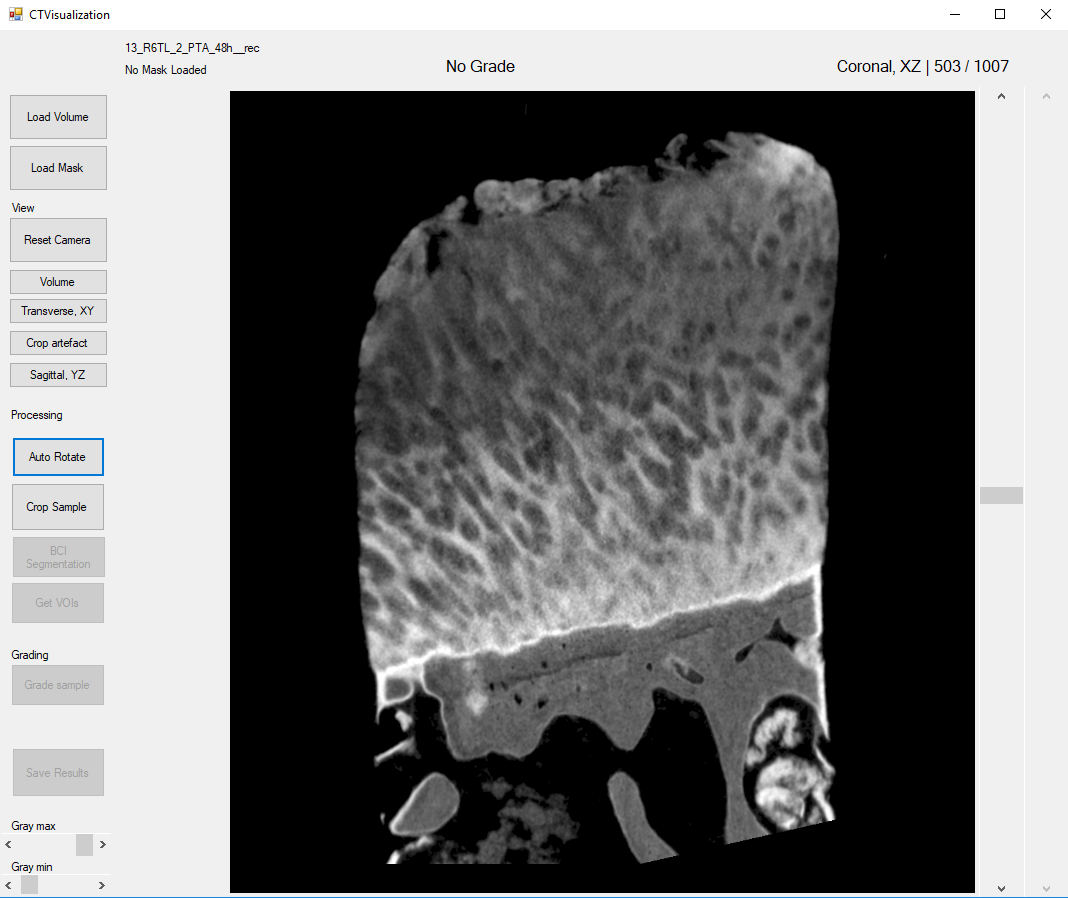
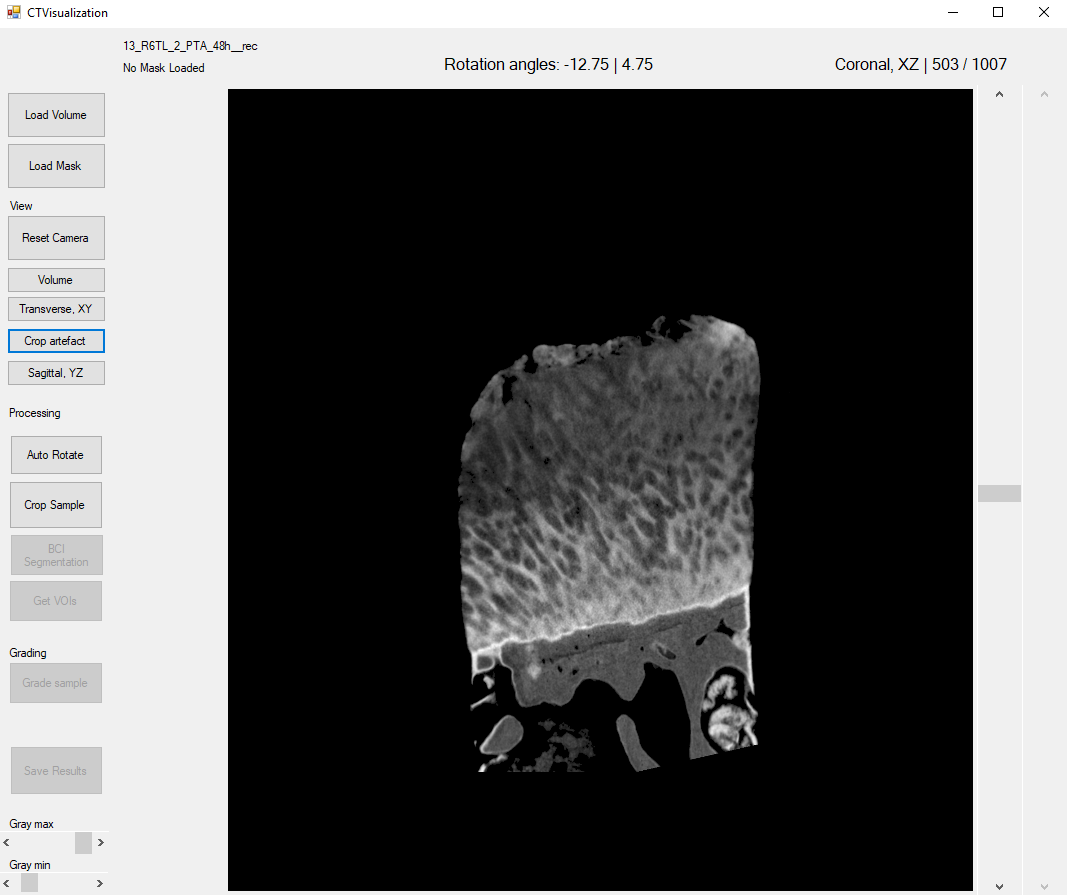
Display tooltips on mainform

diff --git a/3DHistoGrading/GradingForm.Designer.cs b/3DHistoGrading/GradingForm.Designer.cs
@@ -60,7 +60,7 @@
             // 
             this.label1.Anchor = System.Windows.Forms.AnchorStyles.Bottom;
             this.label1.AutoSize = true;
-            this.label1.Location = new System.Drawing.Point(121, 179);
+            this.label1.Location = new System.Drawing.Point(118, 185);
             this.label1.Name = "label1";
             this.label1.Size = new System.Drawing.Size(65, 13);
             this.label1.TabIndex = 1;
@@ -70,7 +70,7 @@
             // 
             this.label2.Anchor = System.Windows.Forms.AnchorStyles.Bottom;
             this.label2.AutoSize = true;
-            this.label2.Location = new System.Drawing.Point(359, 179);
+            this.label2.Location = new System.Drawing.Point(350, 185);
             this.label2.Name = "label2";
             this.label2.Size = new System.Drawing.Size(127, 13);
             this.label2.TabIndex = 2;
@@ -81,7 +81,7 @@
             // 
             this.label3.Anchor = System.Windows.Forms.AnchorStyles.Bottom;
             this.label3.AutoSize = true;
-            this.label3.Location = new System.Drawing.Point(394, 499);
+            this.label3.Location = new System.Drawing.Point(385, 516);
             this.label3.Name = "label3";
             this.label3.Size = new System.Drawing.Size(57, 13);
             this.label3.TabIndex = 7;
@@ -91,7 +91,7 @@
             // 
             this.label4.Anchor = System.Windows.Forms.AnchorStyles.Bottom;
             this.label4.AutoSize = true;
-            this.label4.Location = new System.Drawing.Point(126, 499);
+            this.label4.Location = new System.Drawing.Point(123, 516);
             this.label4.Name = "label4";
             this.label4.Size = new System.Drawing.Size(55, 13);
             this.label4.TabIndex = 8;
@@ -101,7 +101,7 @@
             // 
             this.label5.Anchor = System.Windows.Forms.AnchorStyles.Bottom;
             this.label5.AutoSize = true;
-            this.label5.Location = new System.Drawing.Point(661, 499);
+            this.label5.Location = new System.Drawing.Point(646, 516);
             this.label5.Name = "label5";
             this.label5.Size = new System.Drawing.Size(60, 13);
             this.label5.TabIndex = 9;
@@ -110,18 +110,18 @@
             // progressBar1
             // 
             this.progressBar1.Dock = System.Windows.Forms.DockStyle.Top;
-            this.progressBar1.Location = new System.Drawing.Point(560, 23);
+            this.progressBar1.Location = new System.Drawing.Point(23, 23);
             this.progressBar1.Name = "progressBar1";
-            this.progressBar1.Size = new System.Drawing.Size(263, 43);
+            this.progressBar1.Size = new System.Drawing.Size(256, 34);
             this.progressBar1.TabIndex = 10;
             // 
             // progressLabel
             // 
+            this.progressLabel.Anchor = System.Windows.Forms.AnchorStyles.Left;
             this.progressLabel.AutoSize = true;
-            this.progressLabel.Dock = System.Windows.Forms.DockStyle.Bottom;
-            this.progressLabel.Location = new System.Drawing.Point(560, 7);
+            this.progressLabel.Location = new System.Drawing.Point(23, 3);
             this.progressLabel.Name = "progressLabel";
-            this.progressLabel.Size = new System.Drawing.Size(263, 13);
+            this.progressLabel.Size = new System.Drawing.Size(54, 13);
             this.progressLabel.TabIndex = 11;
             this.progressLabel.Text = "Progress: ";
             // 
@@ -130,9 +130,9 @@
             this.meanPicture.Anchor = ((System.Windows.Forms.AnchorStyles)((((System.Windows.Forms.AnchorStyles.Top | System.Windows.Forms.AnchorStyles.Bottom) 
             | System.Windows.Forms.AnchorStyles.Left) 
             | System.Windows.Forms.AnchorStyles.Right)));
-            this.meanPicture.Location = new System.Drawing.Point(23, 195);
+            this.meanPicture.Location = new System.Drawing.Point(23, 201);
             this.meanPicture.Name = "meanPicture";
-            this.meanPicture.Size = new System.Drawing.Size(262, 240);
+            this.meanPicture.Size = new System.Drawing.Size(256, 249);
             this.meanPicture.SizeMode = System.Windows.Forms.PictureBoxSizeMode.AutoSize;
             this.meanPicture.TabIndex = 12;
             this.meanPicture.TabStop = false;
@@ -142,9 +142,9 @@
             this.stdPicture.Anchor = ((System.Windows.Forms.AnchorStyles)((((System.Windows.Forms.AnchorStyles.Top | System.Windows.Forms.AnchorStyles.Bottom) 
             | System.Windows.Forms.AnchorStyles.Left) 
             | System.Windows.Forms.AnchorStyles.Right)));
-            this.stdPicture.Location = new System.Drawing.Point(291, 195);
+            this.stdPicture.Location = new System.Drawing.Point(285, 201);
             this.stdPicture.Name = "stdPicture";
-            this.stdPicture.Size = new System.Drawing.Size(263, 240);
+            this.stdPicture.Size = new System.Drawing.Size(257, 249);
             this.stdPicture.TabIndex = 13;
             this.stdPicture.TabStop = false;
             // 
@@ -153,9 +153,9 @@
             this.smallPicture.Anchor = ((System.Windows.Forms.AnchorStyles)((((System.Windows.Forms.AnchorStyles.Top | System.Windows.Forms.AnchorStyles.Bottom) 
             | System.Windows.Forms.AnchorStyles.Left) 
             | System.Windows.Forms.AnchorStyles.Right)));
-            this.smallPicture.Location = new System.Drawing.Point(23, 515);
+            this.smallPicture.Location = new System.Drawing.Point(23, 532);
             this.smallPicture.Name = "smallPicture";
-            this.smallPicture.Size = new System.Drawing.Size(262, 240);
+            this.smallPicture.Size = new System.Drawing.Size(256, 249);
             this.smallPicture.TabIndex = 14;
             this.smallPicture.TabStop = false;
             // 
@@ -164,9 +164,9 @@
             this.largePicture.Anchor = ((System.Windows.Forms.AnchorStyles)((((System.Windows.Forms.AnchorStyles.Top | System.Windows.Forms.AnchorStyles.Bottom) 
             | System.Windows.Forms.AnchorStyles.Left) 
             | System.Windows.Forms.AnchorStyles.Right)));
-            this.largePicture.Location = new System.Drawing.Point(291, 515);
+            this.largePicture.Location = new System.Drawing.Point(285, 532);
             this.largePicture.Name = "largePicture";
-            this.largePicture.Size = new System.Drawing.Size(263, 240);
+            this.largePicture.Size = new System.Drawing.Size(257, 249);
             this.largePicture.TabIndex = 15;
             this.largePicture.TabStop = false;
             // 
@@ -175,9 +175,9 @@
             this.radialPicture.Anchor = ((System.Windows.Forms.AnchorStyles)((((System.Windows.Forms.AnchorStyles.Top | System.Windows.Forms.AnchorStyles.Bottom) 
             | System.Windows.Forms.AnchorStyles.Left) 
             | System.Windows.Forms.AnchorStyles.Right)));
-            this.radialPicture.Location = new System.Drawing.Point(560, 515);
+            this.radialPicture.Location = new System.Drawing.Point(548, 532);
             this.radialPicture.Name = "radialPicture";
-            this.radialPicture.Size = new System.Drawing.Size(263, 240);
+            this.radialPicture.Size = new System.Drawing.Size(257, 249);
             this.radialPicture.TabIndex = 16;
             this.radialPicture.TabStop = false;
             // 
@@ -185,22 +185,19 @@
             // 
             this.gradeLabel.Anchor = System.Windows.Forms.AnchorStyles.Left;
             this.gradeLabel.AutoSize = true;
-            this.gradeLabel.Font = new System.Drawing.Font("Microsoft Sans Serif", 32.25F, System.Drawing.FontStyle.Regular, System.Drawing.GraphicsUnit.Point, ((byte)(0)));
-            this.gradeLabel.Location = new System.Drawing.Point(291, 43);
+            this.gradeLabel.Font = new System.Drawing.Font("Microsoft Sans Serif", 30F, System.Drawing.FontStyle.Regular, System.Drawing.GraphicsUnit.Point, ((byte)(0)));
+            this.gradeLabel.Location = new System.Drawing.Point(285, 48);
             this.gradeLabel.Name = "gradeLabel";
-            this.gradeLabel.Size = new System.Drawing.Size(241, 51);
+            this.gradeLabel.Size = new System.Drawing.Size(223, 46);
             this.gradeLabel.TabIndex = 17;
             this.gradeLabel.Text = "Zone grade";
             // 
             // parameterLabel
             // 
-            this.parameterLabel.Anchor = ((System.Windows.Forms.AnchorStyles)((((System.Windows.Forms.AnchorStyles.Top | System.Windows.Forms.AnchorStyles.Bottom) 
-            | System.Windows.Forms.AnchorStyles.Left) 
-            | System.Windows.Forms.AnchorStyles.Right)));
             this.parameterLabel.AutoSize = true;
-            this.parameterLabel.Location = new System.Drawing.Point(23, 20);
+            this.parameterLabel.Location = new System.Drawing.Point(548, 20);
             this.parameterLabel.Name = "parameterLabel";
-            this.parameterLabel.Size = new System.Drawing.Size(262, 98);
+            this.parameterLabel.Size = new System.Drawing.Size(154, 13);
             this.parameterLabel.TabIndex = 18;
             this.parameterLabel.Text = "Parameters (hover mouse over)";
             this.parameterTip.SetToolTip(this.parameterLabel, "Parameters:");
@@ -215,7 +212,7 @@
             // 
             this.meanstdLabel.Anchor = System.Windows.Forms.AnchorStyles.Bottom;
             this.meanstdLabel.AutoSize = true;
-            this.meanstdLabel.Location = new System.Drawing.Point(660, 179);
+            this.meanstdLabel.Location = new System.Drawing.Point(645, 185);
             this.meanstdLabel.Name = "meanstdLabel";
             this.meanstdLabel.Size = new System.Drawing.Size(62, 13);
             this.meanstdLabel.TabIndex = 19;
@@ -226,9 +223,9 @@
             this.meanstdPicture.Anchor = ((System.Windows.Forms.AnchorStyles)((((System.Windows.Forms.AnchorStyles.Top | System.Windows.Forms.AnchorStyles.Bottom) 
             | System.Windows.Forms.AnchorStyles.Left) 
             | System.Windows.Forms.AnchorStyles.Right)));
-            this.meanstdPicture.Location = new System.Drawing.Point(560, 195);
+            this.meanstdPicture.Location = new System.Drawing.Point(548, 201);
             this.meanstdPicture.Name = "meanstdPicture";
-            this.meanstdPicture.Size = new System.Drawing.Size(263, 240);
+            this.meanstdPicture.Size = new System.Drawing.Size(257, 249);
             this.meanstdPicture.TabIndex = 20;
             this.meanstdPicture.TabStop = false;
             // 
@@ -239,7 +236,7 @@
             this.tableLayoutPanel1.ColumnStyles.Add(new System.Windows.Forms.ColumnStyle(System.Windows.Forms.SizeType.Percent, 33.33333F));
             this.tableLayoutPanel1.ColumnStyles.Add(new System.Windows.Forms.ColumnStyle(System.Windows.Forms.SizeType.Percent, 33.33334F));
             this.tableLayoutPanel1.ColumnStyles.Add(new System.Windows.Forms.ColumnStyle(System.Windows.Forms.SizeType.Percent, 33.33334F));
-            this.tableLayoutPanel1.ColumnStyles.Add(new System.Windows.Forms.ColumnStyle(System.Windows.Forms.SizeType.Absolute, 20F));
+            this.tableLayoutPanel1.ColumnStyles.Add(new System.Windows.Forms.ColumnStyle(System.Windows.Forms.SizeType.Absolute, 21F));
             this.tableLayoutPanel1.Controls.Add(this.meanstdLabel, 3, 2);
             this.tableLayoutPanel1.Controls.Add(this.meanstdPicture, 3, 3);
             this.tableLayoutPanel1.Controls.Add(this.label2, 2, 2);
@@ -250,12 +247,12 @@
             this.tableLayoutPanel1.Controls.Add(this.largePicture, 2, 5);
             this.tableLayoutPanel1.Controls.Add(this.radialPicture, 3, 5);
             this.tableLayoutPanel1.Controls.Add(this.stdPicture, 2, 3);
-            this.tableLayoutPanel1.Controls.Add(this.progressLabel, 3, 0);
-            this.tableLayoutPanel1.Controls.Add(this.progressBar1, 3, 1);
             this.tableLayoutPanel1.Controls.Add(this.label5, 3, 4);
             this.tableLayoutPanel1.Controls.Add(this.label3, 2, 4);
             this.tableLayoutPanel1.Controls.Add(this.gradeLabel, 2, 1);
-            this.tableLayoutPanel1.Controls.Add(this.parameterLabel, 1, 1);
+            this.tableLayoutPanel1.Controls.Add(this.progressBar1, 1, 1);
+            this.tableLayoutPanel1.Controls.Add(this.parameterLabel, 3, 1);
+            this.tableLayoutPanel1.Controls.Add(this.progressLabel, 1, 0);
             this.tableLayoutPanel1.Dock = System.Windows.Forms.DockStyle.Fill;
             this.tableLayoutPanel1.Location = new System.Drawing.Point(0, 0);
             this.tableLayoutPanel1.Name = "tableLayoutPanel1";
@@ -267,17 +264,21 @@
             this.tableLayoutPanel1.RowStyles.Add(new System.Windows.Forms.RowStyle(System.Windows.Forms.SizeType.Percent, 10.00014F));
             this.tableLayoutPanel1.RowStyles.Add(new System.Windows.Forms.RowStyle(System.Windows.Forms.SizeType.Percent, 33.3349F));
             this.tableLayoutPanel1.RowStyles.Add(new System.Windows.Forms.RowStyle(System.Windows.Forms.SizeType.Absolute, 20F));
-            this.tableLayoutPanel1.Size = new System.Drawing.Size(847, 780);
+            this.tableLayoutPanel1.Size = new System.Drawing.Size(830, 807);
             this.tableLayoutPanel1.TabIndex = 21;
             // 
             // GradingForm
             // 
             this.AutoScaleDimensions = new System.Drawing.SizeF(6F, 13F);
             this.AutoScaleMode = System.Windows.Forms.AutoScaleMode.Font;
-            this.ClientSize = new System.Drawing.Size(847, 780);
+            this.ClientSize = new System.Drawing.Size(830, 807);
             this.Controls.Add(this.tableLayoutPanel1);
+            this.FormBorderStyle = System.Windows.Forms.FormBorderStyle.Fixed3D;
+            this.MaximumSize = new System.Drawing.Size(1080, 1080);
+            this.MinimumSize = new System.Drawing.Size(100, 100);
             this.Name = "GradingForm";
-            this.Text = "GradingForm";
+            this.ShowIcon = false;
+            this.Text = "Grading";
             ((System.ComponentModel.ISupportInitialize)(this.meanPicture)).EndInit();
             ((System.ComponentModel.ISupportInitialize)(this.stdPicture)).EndInit();
             ((System.ComponentModel.ISupportInitialize)(this.smallPicture)).EndInit();

diff --git a/3DHistoGrading/MainForm.cs b/3DHistoGrading/MainForm.cs
@@ -54,6 +54,9 @@ namespace HistoGrading
         // Sample name
         string fname = null;
 
+        // Tooltip
+        string tip = "Start by loading a PTA sample";
+
         //Save directory
         string savedir = "C:\\Users\\Tuomas Frondelius\\Desktop\\PTAResults";
 
@@ -67,6 +70,7 @@ namespace HistoGrading
         public MainForm()
         {
             InitializeComponent();
+            gradeLabel.Text = tip;
         }
 
         /// <summary>
@@ -78,21 +82,25 @@ namespace HistoGrading
             if(ori == -1)
             {
                 sliceLabel.Text = "Rendering volume";
+                gradeLabel.Text = tip;
             }
-            //Tell coronal rendering
+            //Tell transverse rendering
             if (ori == 2)
             {
-                sliceLabel.Text = String.Format("Transverse, XY | {0} / {1}", sliceN[ori]-dims[4], dims[5]-dims[4]);
+                sliceLabel.Text = string.Format("Transverse, XY | {0} / {1}", sliceN[ori]-dims[4], dims[5]-dims[4]);
+                gradeLabel.Text = tip;
             }
-            //Tell transverse rendering
+            //Tell coronal rendering
             if (ori == 0)
             {
-                sliceLabel.Text = String.Format("Coronal, XZ | {0} / {1}", sliceN[ori]-dims[0], dims[1]-dims[0]);
+                sliceLabel.Text = string.Format("Coronal, XZ | {0} / {1}", sliceN[ori]-dims[0], dims[1]-dims[0]);
+                gradeLabel.Text = "Drag right mouse button to crop artefacts";
             }
-            //Tell transverse rendering
+            //Tell sagittal rendering
             if (ori == 1)
             {
-                sliceLabel.Text = String.Format("Sagittal, YZ | {0} / {1}", sliceN[ori]-dims[2], dims[3]-dims[2]);
+                sliceLabel.Text = string.Format("Sagittal, YZ | {0} / {1}", sliceN[ori]-dims[2], dims[3]-dims[2]);
+                gradeLabel.Text = "Drag right mouse button to crop artefacts";
             }
         }
 
@@ -217,10 +225,6 @@ namespace HistoGrading
                     }
                 }
 
-                //Update GUI text to tell path to data folder
-                fileLabel.Text = fname;
-                gradeLabel.Text = "No Grade";
-
                 //Load data
                 volume.connectData(impath);
                 
@@ -284,7 +288,10 @@ namespace HistoGrading
 
                 GC.Collect();
 
-
+                //Update GUI text to tell path to data folder
+                fileLabel.Text = fname;
+                tip = "Sample loaded and tools enabled";
+                gradeLabel.Text = tip;
             }
         }
 
@@ -529,7 +536,7 @@ namespace HistoGrading
         //Automatically reorient the sample
         private void rotate_button_Click(object sender, EventArgs e)
         {
-            volume.auto_rotate();
+            string angles = volume.auto_rotate();
             dims = volume.getDims();
             sliceN[0] = (dims[1] + dims[0]) / 2;
             sliceN[1] = (dims[3] + dims[2]) / 2;
@@ -557,8 +564,11 @@ namespace HistoGrading
                     volume.renderImageMask();
                 }                
             }
-            
             GC.Collect();
+
+            // Update tip
+            tip = angles;
+            gradeLabel.Text = tip;
         }
 
         //Automatically segment the BC interface
@@ -599,7 +609,8 @@ namespace HistoGrading
         {
 
             //Connect mask to segmentation pipeline
-            volume.center_crop(448);            
+            int size = 448;
+            volume.center_crop(size);            
             //Update sample dimensions
             dims = volume.getDims();
             sliceN[0] = (dims[1] + dims[0]) / 2;
@@ -621,7 +632,8 @@ namespace HistoGrading
                         
             segmentButton.Enabled = true;
             predict.Enabled = true;
-
+            tip = "Cropped to " + size.ToString() + " | " + size.ToString() + " size";
+            gradeLabel.Text = tip;
             GC.Collect();
         }
 

diff --git a/3DHistoGrading/Components/Rendering.cs b/3DHistoGrading/Components/Rendering.cs
@@ -3,6 +3,7 @@ using System.Collections.Generic;
 using System.Linq;
 using System.Text;
 using System.Threading.Tasks;
+using System.Globalization;
 
 using Kitware.VTK;
 
@@ -858,15 +859,18 @@ namespace HistoGrading.Components
                 return voi;
             }
 
-            public void auto_rotate()
+            public string auto_rotate()
             {
                 vtkImageData tmp = vtkImageData.New();
                 tmp.DeepCopy(idata);                
-                tmp = Functions.auto_rotate(tmp, 3);
+                tmp = Functions.auto_rotate(tmp, out double[] angles, 3);
                 idata = vtkImageData.New();
                 idata.DeepCopy(tmp);
                 tmp.Dispose();
                 GC.Collect();
+
+                var angletext = "Rotation angles: " + angles[0].ToString("#0.##", CultureInfo.InvariantCulture) + " | " + angles[1].ToString("#0.##", CultureInfo.InvariantCulture);
+                return angletext;
             }
 
             public void center_crop(int size = 400)

diff --git a/3DHistoGrading/Components/Functions.cs b/3DHistoGrading/Components/Functions.cs
@@ -1062,7 +1062,7 @@ namespace HistoGrading.Components
 
         }
 
-        public static vtkImageData auto_rotate(vtkImageData vtkdata, double ori_thresh = 5)
+        public static vtkImageData auto_rotate(vtkImageData vtkdata, out double[] angles, double ori_thresh = 5)
         {
             //Get sample dimensions
             int[] dims = vtkdata.GetExtent();
@@ -1094,10 +1094,10 @@ namespace HistoGrading.Components
             double s = 0.1;
             vtkImageData scaled = Processing.rescale_sample(vtkdata, s);
             //math.Dispose();
-
+            
 
             //Get sample orientation
-            double[] angles = Processing.grad_descent(scaled);
+            angles = Processing.grad_descent(scaled);
             angles = new double[] { angles[0], angles[1] };
             int[] axes = new int[] { 0, 1 };
 
